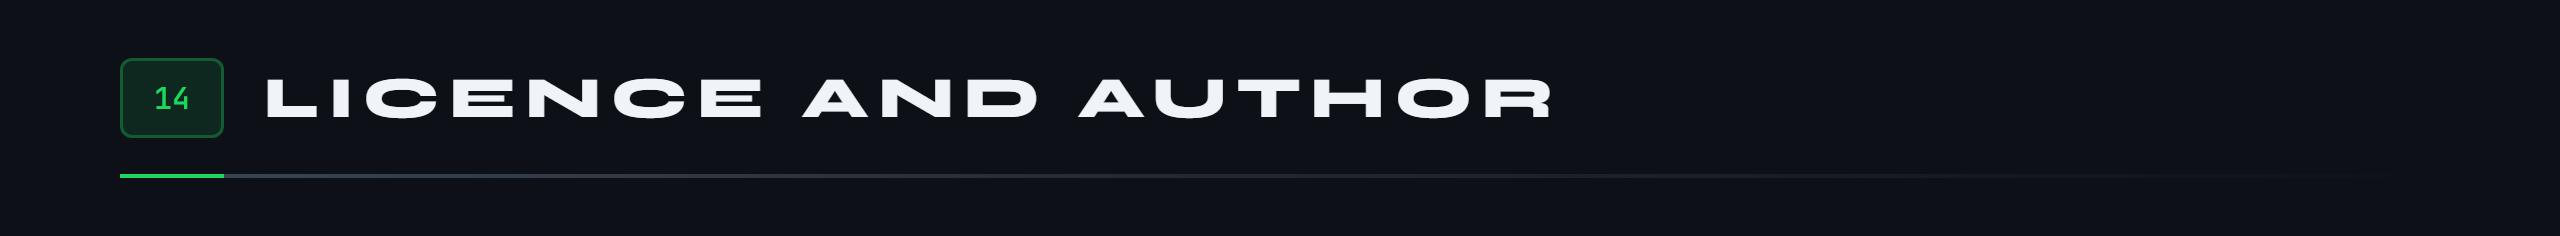
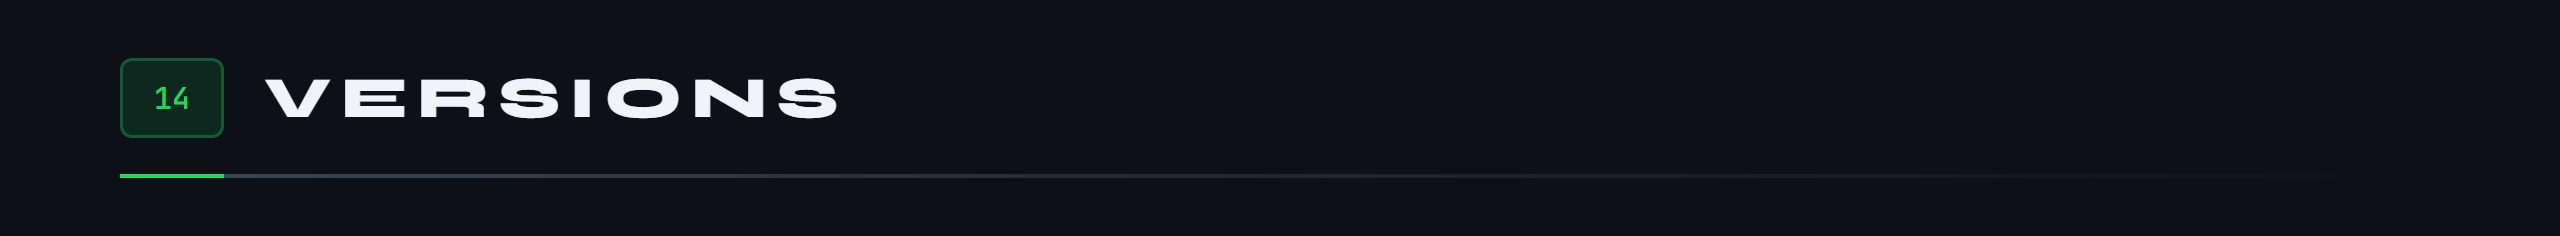
Une section Les versions : le sommaire se range en cinq rangées de trois
Ce que chaque version a changé, avec le lien vers sa Release, juste avant la licence, qui passe en 15.

Claude-Session: https://claude.ai/code/session_01CDVvBB2tHZXDpeT3YEFvnr

Changed region(s): [[0.0938, 0.3263, 0.625, 0.5042]]

diff --git a/README.md b/README.md
@@ -37,7 +37,8 @@ Elle est née d'une envie simple : arrêter de dépenser sans regarder, et de pi
 <a href="#architecture"><img src="docs/sommaire/12.png" alt="12 Architecture" width="31%"></a>
 <br>
 <a href="#tests"><img src="docs/sommaire/13.png" alt="13 Les tests" width="31%"></a>
-<a href="#licence"><img src="docs/sommaire/14.png" alt="14 Licence" width="31%"></a>
+<a href="#versions"><img src="docs/sommaire/14.png" alt="14 Les versions" width="31%"></a>
+<a href="#licence"><img src="docs/sommaire/15.png" alt="15 Licence" width="31%"></a>
 </p>
 
 <a id="fonctionnalites"></a>
@@ -286,8 +287,20 @@ flutter test                                   # la logique pure
 flutter test integration_test -d emulator-5554 # la base chiffrée, sur un émulateur
 ```
 
+<a id="versions"></a>
+<img src="docs/sections/s14.png" alt="14 Les versions" width="100%">
+
+Chaque version s'installe par-dessus la précédente sans rien perdre. Le détail, avec les empreintes SHA-256, est sur la page de chaque Release.
+
+- **[1.2.2](https://github.com/Cybertrist/SmartBudget/releases/tag/v1.2.2)**, 26 septembre 2026 : l'audit complet. Lier un remboursement ne gèle plus l'application, elle se reverrouille après un passage en arrière-plan, la synchronisation garde les liens des opérations en attente, les règles apprises ne s'emballent plus sur un chèque. Montants nets partout, récurrences justes sur les mois passés, fiche d'opération entière sur l'écran déplié. 73 tests.
+- **[1.2.0](https://github.com/Cybertrist/SmartBudget/releases/tag/v1.2.0)**, 25 septembre : choisir sa banque parmi toutes celles d'Enable Banking, une page guide pour obtenir la clé, les opérations en attente affichées tout de suite, la synchronisation à chaque ouverture.
+- **[1.1.0](https://github.com/Cybertrist/SmartBudget/releases/tag/v1.1.0)**, 24 septembre : la démo, une seconde application avec quatre mois d'opérations inventées, à côté de la vraie.
+- **[1.0.3](https://github.com/Cybertrist/SmartBudget/releases/tag/v1.0.3)**, 24 septembre : l'alerte de compte en négatif, toutes les six heures, même application fermée.
+- **[1.0.2](https://github.com/Cybertrist/SmartBudget/releases/tag/v1.0.2)** et **[1.0.1](https://github.com/Cybertrist/SmartBudget/releases/tag/v1.0.1)** : les icônes des sorties et loisirs, et le bon numéro de version dans les réglages.
+- **[1.0.0](https://github.com/Cybertrist/SmartBudget/releases/tag/v1.0.0)**, 24 septembre : la première version, reliée au Crédit Mutuel de Bretagne, classement automatique, virements internes, remboursements, récurrences, écran déplié et base chiffrée.
+
 <a id="licence"></a>
-<img src="docs/sections/s14.png" alt="14 Licence et auteur" width="100%">
+<img src="docs/sections/s15.png" alt="15 Licence et auteur" width="100%">
 
 Le code est publié sous licence [MIT](LICENSE) : libre de le lire, de le reprendre et de le modifier, à condition de garder la mention de copyright. La police Figtree est sous licence SIL Open Font, les icônes Material Symbols sous licence Apache 2.0.
 

diff --git a/README.en.md b/README.en.md
@@ -37,7 +37,8 @@ It came from a simple wish: stop spending without looking, and stop dipping into
 <a href="#architecture"><img src="docs/en/sommaire/12.png" alt="12 Architecture" width="31%"></a>
 <br>
 <a href="#tests"><img src="docs/en/sommaire/13.png" alt="13 Tests" width="31%"></a>
-<a href="#licence"><img src="docs/en/sommaire/14.png" alt="14 Licence" width="31%"></a>
+<a href="#versions"><img src="docs/en/sommaire/14.png" alt="14 Versions" width="31%"></a>
+<a href="#licence"><img src="docs/en/sommaire/15.png" alt="15 Licence" width="31%"></a>
 </p>
 
 <a id="fonctionnalites"></a>
@@ -286,8 +287,20 @@ flutter test                                   # the pure logic
 flutter test integration_test -d emulator-5554 # the encrypted database, on an emulator
 ```
 
+<a id="versions"></a>
+<img src="docs/en/sections/s14.png" alt="14 Versions" width="100%">
+
+Each version installs over the previous one without losing anything. The details, with the SHA-256 fingerprints, are on each Release page.
+
+- **[1.2.2](https://github.com/Cybertrist/SmartBudget/releases/tag/v1.2.2)**, 26 September 2026: the full audit. Linking a refund no longer freezes the app, it locks again after going to the background, syncing keeps the links of pending transactions, learned rules no longer run wild on a cheque. Net amounts everywhere, correct recurrences for past months, the whole transaction page on the unfolded screen. 73 tests.
+- **[1.2.0](https://github.com/Cybertrist/SmartBudget/releases/tag/v1.2.0)**, 25 September: choosing your bank among all of Enable Banking's, a guide page to get the key, pending transactions shown at once, a sync every time the app opens.
+- **[1.1.0](https://github.com/Cybertrist/SmartBudget/releases/tag/v1.1.0)**, 24 September: the demo, a second app with four months of made-up transactions, next to the real one.
+- **[1.0.3](https://github.com/Cybertrist/SmartBudget/releases/tag/v1.0.3)**, 24 September: the overdraft alert, every six hours, even with the app closed.
+- **[1.0.2](https://github.com/Cybertrist/SmartBudget/releases/tag/v1.0.2)** and **[1.0.1](https://github.com/Cybertrist/SmartBudget/releases/tag/v1.0.1)**: the outings and leisure icons, and the right version number in the settings.
+- **[1.0.0](https://github.com/Cybertrist/SmartBudget/releases/tag/v1.0.0)**, 24 September: the first version, linked to Crédit Mutuel de Bretagne, with automatic categorising, internal transfers, refunds, recurrences, the unfolded screen and an encrypted database.
+
 <a id="licence"></a>
-<img src="docs/en/sections/s14.png" alt="14 Licence and author" width="100%">
+<img src="docs/en/sections/s15.png" alt="15 Licence and author" width="100%">
 
 The code is released under the [MIT](LICENSE) licence: free to read, reuse and modify, as long as the copyright notice stays. The Figtree font is under the SIL Open Font licence, the Material Symbols icons under Apache 2.0.
 
